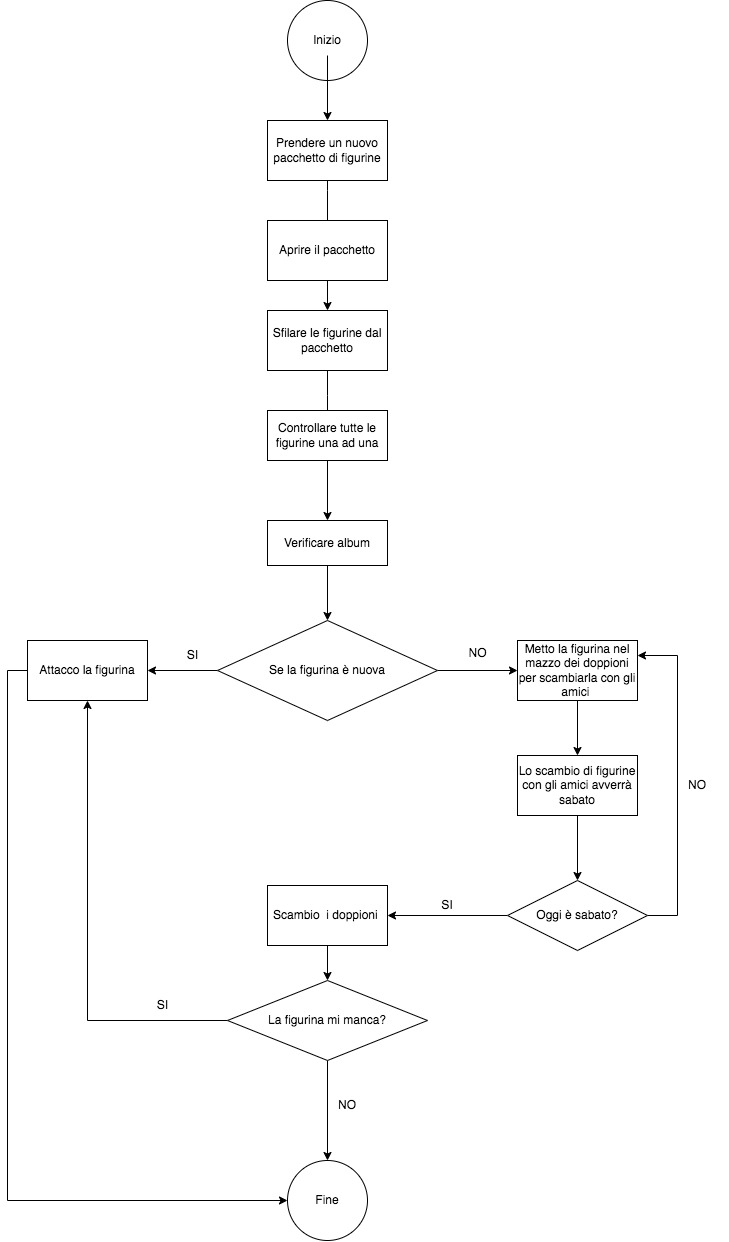
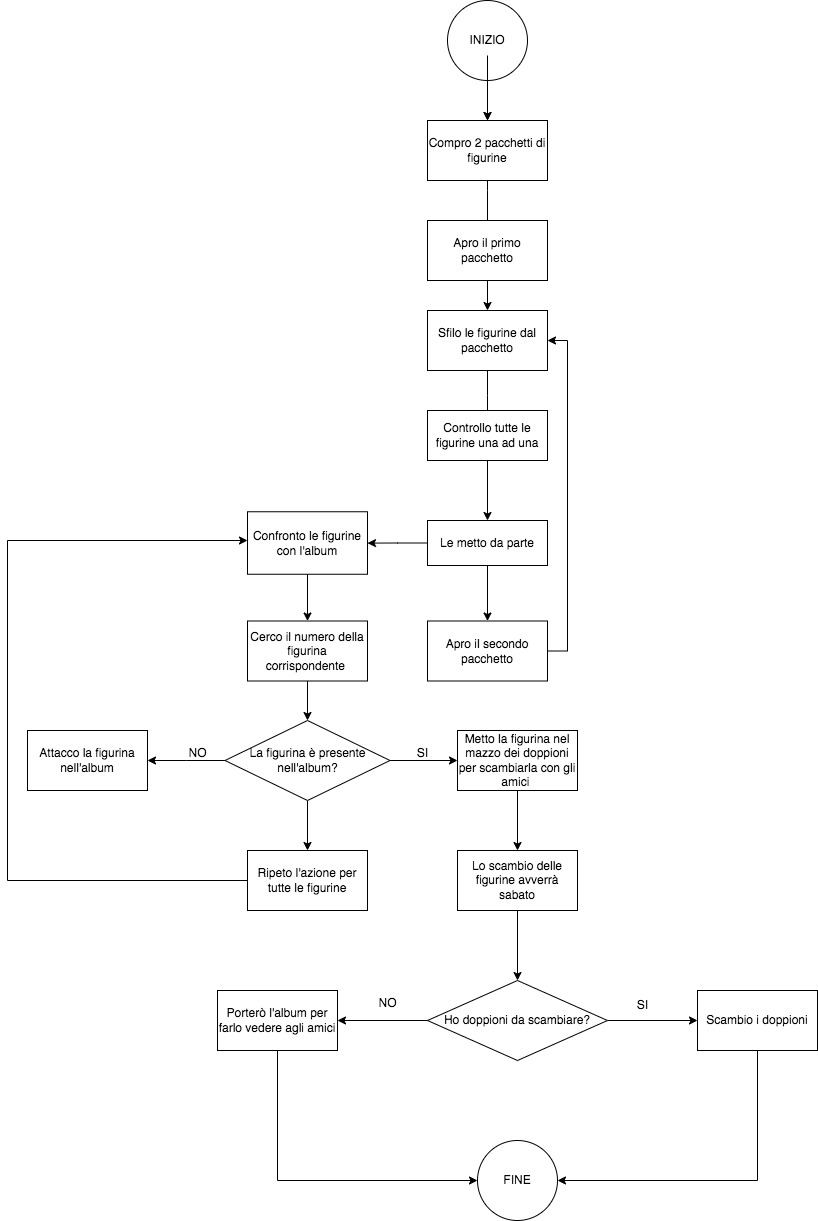
Apportate correzioni a README e diagramma

diff --git a/README.md b/README.md
@@ -6,34 +6,19 @@ Ce l’ho, mi manca!
 Che emozione, ogni volta che apro un pacchetto nuovo... chissà se troverò quella figurina così rara!
 Dopo averle sfilate dal pacchetto, me le passo tra le mani controllando nell’album: attacco subito quelle nuove, mentre le doppie le metto in un mazzetto a parte. Ormai ne sto accumulando diverse, spero di riuscire a combinare diversi scambi sabato con i miei amici! 
 
-1-Inizio
-
-Prendere un nuovo pacchetto di figurine
-
-Aprire il pacchetto
-
-Sfilare le figurine dal pacchetto
-
-Controllare tutte le figurine una ad una
-
-Verificare album
-
-Se la figurina è nuova
-
-(SI) Attacco la figurina ———— FINE
-
-(NO) Metto la figurina nel mazzo dei doppioni per scambiarla con gli amici ***
-
-Lo scambio di figurine con gli amici avverrà sabato
-
-Oggi è sabato?
-
-(NO) Metto la figurina nel mazzo ***
-
-(SI) Scambio i doppioni
-
-La figurina mi manca?
-
-(SI) Attacco la figurina ———— FINE
-
-(NO) ———— FINE
+1 Compro due pacchetti di figurine
+2 Apro il primo pacchetto
+3 Sfilo le figurine dal pacchetto
+4 ControllO tutte le figurine una ad una
+5 Le metto da parte
+    5a Confrontare le figurine con l'abum
+    5b Cerco il numero della figurina corrispondente
+        -La figurina è presente nell'album?
+            - Se no, l'attacco nell'album
+            - Se si, metto la figurina nel mazzo dei doppioni per scambiarla con gli amici
+    5c Ripeto l'azione per tutte le figurine
+6 Apro il secondo pacchetto
+7 Lo scambio di figurine con gli amici avverrà sabato
+8 Ho doppioni da scambiare?
+    - Se si, scambio i doppioni - FINE
+    - Se no, porterò l'album per farlo vedere agli amici  - FINE
